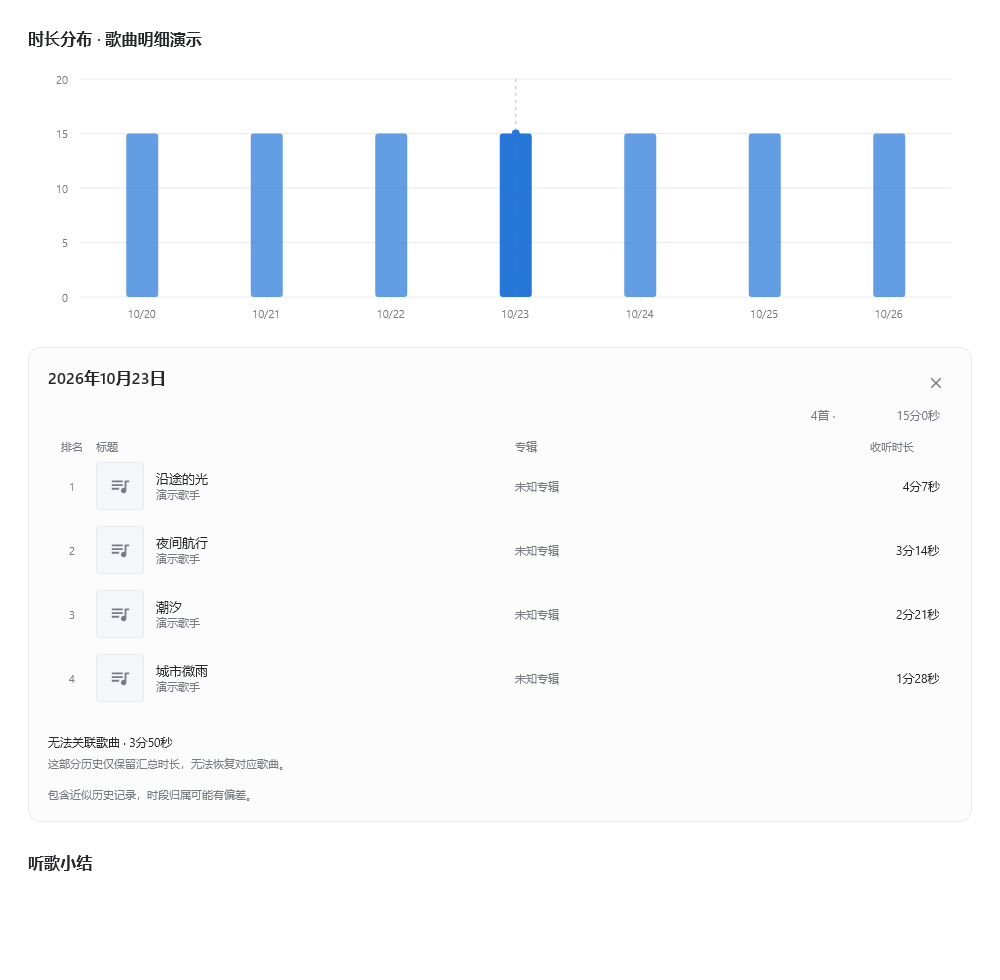
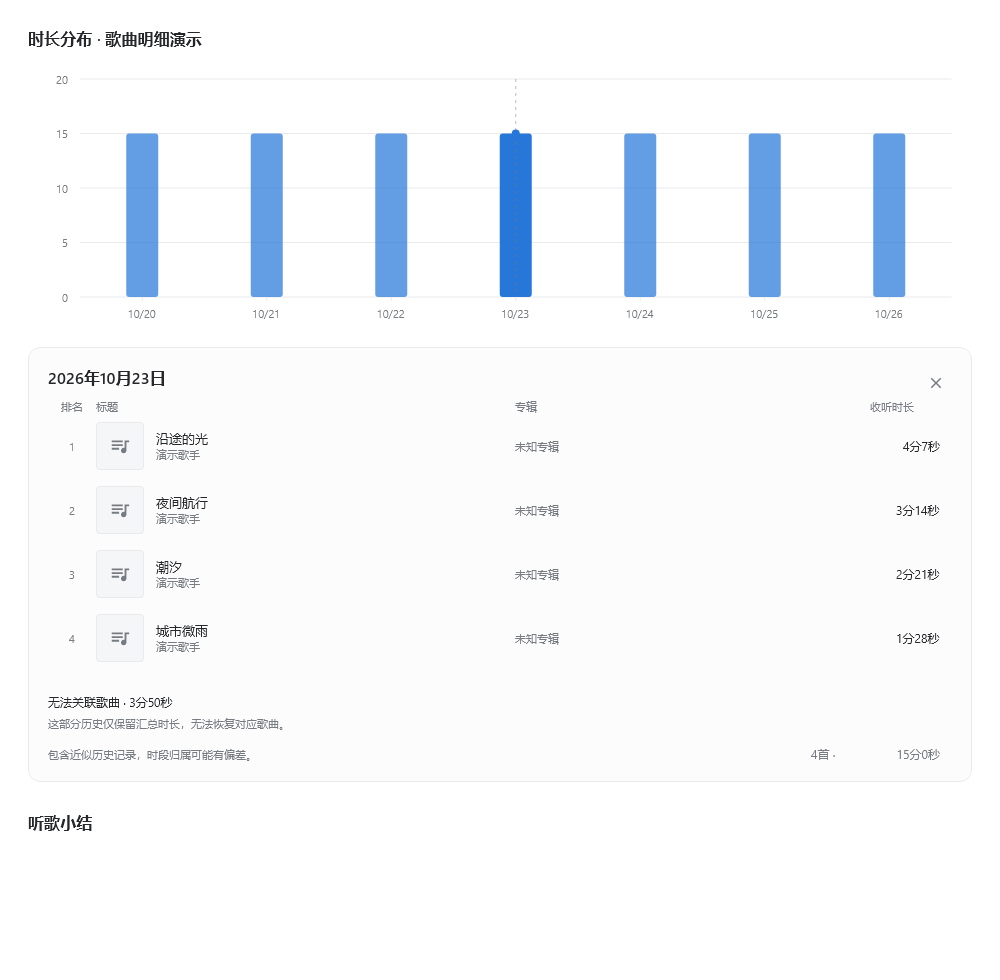
Place listening summary at card footer

diff --git a/plugin/src/main/kotlin/com/jethuit/spw/listenstats/ui/ListeningDetailsPanel.kt b/plugin/src/main/kotlin/com/jethuit/spw/listenstats/ui/ListeningDetailsPanel.kt
@@ -73,27 +73,6 @@ fun ListeningDetailsPanel(bucket: ChartBucket, details: ListeningDetails?, visib
                     AppIcon(IconPaths.Close, colors.muted, iconSize = 18.dp)
                 }
             }
-            if (current != null) {
-                BoxWithConstraints(
-                    Modifier.fillMaxWidth().padding(top = 8.dp, bottom = 16.dp, end = 12.dp)
-                ) {
-                    val widths = tableWidths(maxWidth)
-                    Row(Modifier.fillMaxWidth(), verticalAlignment = Alignment.CenterVertically) {
-                        Spacer(Modifier.weight(1f))
-                        Text(
-                            "${current.rows.size}首 ·",
-                            modifier = Modifier.padding(end = 8.dp),
-                            style = AppType.bodySmall.copy(color = colors.muted)
-                        )
-                        Text(
-                            formatDurationSeconds(shown.millis),
-                            modifier = Modifier.width(widths.count),
-                            textAlign = androidx.compose.ui.text.style.TextAlign.End,
-                            style = AppType.bodySmall.copy(color = colors.muted)
-                        )
-                    }
-                }
-            }
             when {
                 current == null -> Text("正在读取明细…", style = AppType.bodySmall.copy(color = colors.muted))
                 current.rows.isEmpty() && current.unknownMillis == 0L -> Text("该时段没有听歌记录",
@@ -150,15 +129,36 @@ fun ListeningDetailsPanel(bucket: ChartBucket, details: ListeningDetails?, visib
                     }
                 }
             }
-            if (current != null && current.unknownMillis > 0L) {
-                Text("无法关联歌曲 · ${formatDurationSeconds(current.unknownMillis)}",
-                    Modifier.padding(top = 16.dp), style = AppType.bodySmall.copy(color = colors.text))
-                Text("这部分历史仅保留汇总时长，无法恢复对应歌曲。", Modifier.padding(top = 6.dp),
-                    style = AppType.tiny.copy(color = colors.muted))
-            }
-            if (current?.rows?.any { it.approximateMillis > 0L } == true) {
-                Text("包含近似历史记录，时段归属可能有偏差。", Modifier.padding(top = 16.dp),
-                    style = AppType.tiny.copy(color = colors.muted))
+            if (current != null) {
+                BoxWithConstraints(Modifier.fillMaxWidth().padding(top = 16.dp, end = 12.dp)) {
+                    val widths = tableWidths(maxWidth)
+                    Row(Modifier.fillMaxWidth(), verticalAlignment = Alignment.Bottom) {
+                        Column(Modifier.weight(1f)) {
+                            if (current.unknownMillis > 0L) {
+                                Text("无法关联歌曲 · ${formatDurationSeconds(current.unknownMillis)}",
+                                    style = AppType.bodySmall.copy(color = colors.text))
+                                Text("这部分历史仅保留汇总时长，无法恢复对应歌曲。",
+                                    Modifier.padding(top = 6.dp), style = AppType.tiny.copy(color = colors.muted))
+                            }
+                            if (current.rows.any { it.approximateMillis > 0L }) {
+                                Text("包含近似历史记录，时段归属可能有偏差。",
+                                    Modifier.padding(top = if (current.unknownMillis > 0L) 16.dp else 0.dp),
+                                    style = AppType.tiny.copy(color = colors.muted))
+                            }
+                        }
+                        Text(
+                            "${current.rows.size}首 ·",
+                            modifier = Modifier.padding(end = 8.dp),
+                            style = AppType.bodySmall.copy(color = colors.muted)
+                        )
+                        Text(
+                            formatDurationSeconds(shown.millis),
+                            modifier = Modifier.width(widths.count),
+                            textAlign = androidx.compose.ui.text.style.TextAlign.End,
+                            style = AppType.bodySmall.copy(color = colors.muted)
+                        )
+                    }
+                }
             }
         }
     }

diff --git a/tools/build_plugin.py b/tools/build_plugin.py
@@ -27,7 +27,7 @@ TOOLS = BUILD / 'tools'
 PLUGIN_SRC = ROOT / 'plugin' / 'src' / 'main' / 'kotlin'
 RESOURCES = ROOT / 'plugin' / 'src' / 'main' / 'resources'
 PLUGIN_ID = 'com.jethuit.spw.listenstats'
-PLUGIN_VERSION = '0.3.1-dev.4'
+PLUGIN_VERSION = '0.3.1-dev.5'
 PLUGIN_NAME = '听歌统计'
 PACKAGE_FILENAME = f'SPW-Stats-v{PLUGIN_VERSION}.spmod'
 PLUGIN_CLASS = 'com.jethuit.spw.listenstats.MainPlugin'

diff --git a/plugin/README.md b/plugin/README.md
@@ -1,6 +1,6 @@
 # 听歌统计模组源码
 
-Kotlin / Compose / Salt UI 实现，当前源码版本为 v0.3.1-dev.4，基于 SPW 1.19.2 构建，采用运行时结构发现接入宿主。安装与功能介绍见[项目首页](../README.md)，产品规则见[需求](../docs/REQUIREMENTS.md)，依赖与许可证见[第三方组件](../docs/THIRD-PARTY.md)。
+Kotlin / Compose / Salt UI 实现，当前源码版本为 v0.3.1-dev.5，基于 SPW 1.19.2 构建，采用运行时结构发现接入宿主。安装与功能介绍见[项目首页](../README.md)，产品规则见[需求](../docs/REQUIREMENTS.md)，依赖与许可证见[第三方组件](../docs/THIRD-PARTY.md)。
 
 ## 目录
 
@@ -20,7 +20,7 @@ py -3.12 tools/prepare_toolchain.py --spw-dir "E:\SteamLibrary\steamapps\common\
 py -3.12 tools/build_plugin.py --spw-dir "E:\SteamLibrary\steamapps\common\Salt Player for Windows"
 ```
 
-构建使用 JDK 25、缓存的 Kotlin 编译器、SaltUI 及对应宿主 jar。每次构建比较安装目录与缓存宿主文件的内容，更新后自动刷新缓存，避免相同文件大小的宿主更新被漏过。工具链缓存位于 `build/tools/`，不提交 Git。版本号以 `tools/build_plugin.py` 的 `PLUGIN_VERSION` 为准；当前开发包为 `0.3.1-dev.4`，正式版 `0.3.0` 保持不变；安装包输出到 `build/libs/SPW-Stats-v<版本>.spmod`，解包目录为 `build/install/spw-listen-stats/`。
+构建使用 JDK 25、缓存的 Kotlin 编译器、SaltUI 及对应宿主 jar。每次构建比较安装目录与缓存宿主文件的内容，更新后自动刷新缓存，避免相同文件大小的宿主更新被漏过。工具链缓存位于 `build/tools/`，不提交 Git。版本号以 `tools/build_plugin.py` 的 `PLUGIN_VERSION` 为准；当前开发包为 `0.3.1-dev.5`，正式版 `0.3.0` 保持不变；安装包输出到 `build/libs/SPW-Stats-v<版本>.spmod`，解包目录为 `build/install/spw-listen-stats/`。
 
 宿主随附的 Kotlin 模块信息缺少部分 Compose 顶层函数索引。构建通过 `tools/RestoreComposeIndex.java` 从当前宿主类的 Kotlin 注解重建运行时包及明细所需的点击、焦点、惰性列表和滚动条编译索引，输出 `build/tools/spw-compose-compile-index.jar`；不需要旧宿主，也不修改安装文件。该文件只用于编译，不进入 `.spmod`，运行时仍使用宿主 Compose 类。
 
@@ -34,7 +34,7 @@ py -3.12 tools/build_plugin.py --spw-dir "E:\SteamLibrary\steamapps\common\Salt 
 
 深色热力图的四档蓝色已提高亮度，由低到高使用 `#3F78AE`、`#5799D6`、`#7AB7EC`、`#A5D4FF`，保留收听越多越亮的方向。每日与每周共用新配色；浅色主题、空白灰格和统计分档不变，真实材质下的观感需安装开发包核对。
 
-图表下方默认显示灰色小字“点击柱子或曲线查看歌曲明细，再次点击收起”。点击时长分布的柱子、折线或曲线对应时段，在图表下方展开歌曲明细，支持 300ms 展开／收起动画及全局动画开关；图表选中态只显示一根竖线和一个圆点，不绘制整段蓝色背景；再次点击当前时段收起，点其他时段直接更新，右上关闭按钮或图表／卡片内 Esc 收起；鼠标点击图表后获取键盘焦点，可直接按 Esc 收起或用左右键、回车选择时段。列表按本时段时长排序，默认最多显示六行，可配置为3～12行，超出时在卡片内滚动。明细标题区域右下方显示“x首 · x小时x分x秒”，时长与列表中的时长列右对齐，表头使用“收听时长”。后台读取同一统计快照中的合并事件，普通刷新保留当前明细，改变日期范围或粒度后收起。明细总时长、歌曲时长和无法关联时长显示到秒，显示已累计的完整秒数，不足一秒显示“不足1秒”；其他页面保持分钟显示。删除歌曲旁的“含近似记录”标注，保留卡片底部的近似时段说明；旧版汇总无法关联歌曲的时长单列说明，不推算时段播放次数。周期对比、范围榜单、分享卡片目前仍只在审核预览中。
+图表下方默认显示灰色小字“点击柱子或曲线查看歌曲明细，再次点击收起”。点击时长分布的柱子、折线或曲线对应时段，在图表下方展开歌曲明细，支持 300ms 展开／收起动画及全局动画开关；图表选中态只显示一根竖线和一个圆点，不绘制整段蓝色背景；再次点击当前时段收起，点其他时段直接更新，右上关闭按钮或图表／卡片内 Esc 收起；鼠标点击图表后获取键盘焦点，可直接按 Esc 收起或用左右键、回车选择时段。列表按本时段时长排序，默认最多显示六行，可配置为3～12行，超出时在卡片内滚动。明细卡片底部右侧显示“x首 · x小时x分x秒”，时长与列表中的时长列右对齐，表头使用“收听时长”。后台读取同一统计快照中的合并事件，普通刷新保留当前明细，改变日期范围或粒度后收起。明细总时长、歌曲时长和无法关联时长显示到秒，显示已累计的完整秒数，不足一秒显示“不足1秒”；其他页面保持分钟显示。删除歌曲旁的“含近似记录”标注，保留卡片底部的近似时段说明；旧版汇总无法关联歌曲的时长单列说明，不推算时段播放次数。周期对比、范围榜单、分享卡片目前仍只在审核预览中。
 
 当前开发版取消小时折线／平滑曲线首尾补出的水平延长线，填充在真实端点处向下闭合，保留半个区间留白及原有线条端头样式。顶部导航首项去除左内边距，与累计卡片和热力图等正文左边缘对齐，蓝色下划线仍跟随图标与文字内容。
 

diff --git a/docs/REQUIREMENTS.md b/docs/REQUIREMENTS.md
@@ -98,7 +98,7 @@
 
 - 2026-10-23 确认先实现歌曲明细，使用图表下方的局部展开卡片。点击柱子、折线或曲线对应时段后展开，300ms 高度展开＋淡入，推开下方听歌小结；关闭按钮或卡片／图表内按 Esc 收起；鼠标点击图表后获得键盘焦点，可直接按 Esc 收起或用左右键、回车选择时段。关闭“页面动画”后直接展开／收起。
 - 2026-10-24：歌曲明细表头与排行表统一为“排名、标题、专辑、收听时长”，排名居中，标题与专辑左对齐，收听时长右对齐。
-- 卡片显示完整日期或时段，标题区域右下方显示“x首 · x小时x分x秒”，时长与列表中的时长列右对齐；以及封面、歌曲名、歌手和收听时长。按收听时长降序。歌曲过多时在卡片内滚动，默认最多六行可见，可在配置中设置为3～12行，超出部分在卡片内滚动。
+- 卡片显示完整日期或时段；歌曲列表下方、卡片底部右侧显示“x首 · x小时x分x秒”，时长与列表中的时长列右对齐；左侧保留无法关联或近似历史说明，以及封面、歌曲名、歌手和收听时长。按收听时长降序。歌曲过多时在卡片内滚动，默认最多六行可见，可在配置中设置为3～12行，超出部分在卡片内滚动。
 - 选中时段在图表中保持标记；再次点击当前柱子或曲线时段收起明细，读取中重复点击同一时段也取消请求。图表可用左右键选择、回车或空格打开／收起。点击其他时段直接更新卡片；普通数据刷新保留所选时段和展开状态，不重播展开动画。更换日期范围或聚合粒度后收起明细。
 - 使用已合并事件的实际片段，跨小时、跨日只累计落入所选时段的部分，按周只覆盖该组实际起止日。同一歌曲按身份合并展示；不从累计次数推断时段次数，也不增加本时段播放次数。
 - 删除歌曲旁的“含近似记录”标注；存在近似片段时保留卡片底部的时段归属说明。旧汇总与已关联歌曲的时长差单列“无法关联歌曲”，不补造歌曲清单。仅明细内的总时长、每首歌曲时长和无法关联时长显示到秒，例如“3分27秒”“1小时2分8秒”；按最终合计值取完整秒数，正值不足一秒显示“不足1秒”，零时长显示“0秒”。其他位置继续使用原有分钟舍入口径；显示到秒不改变近似历史记录的精度。
